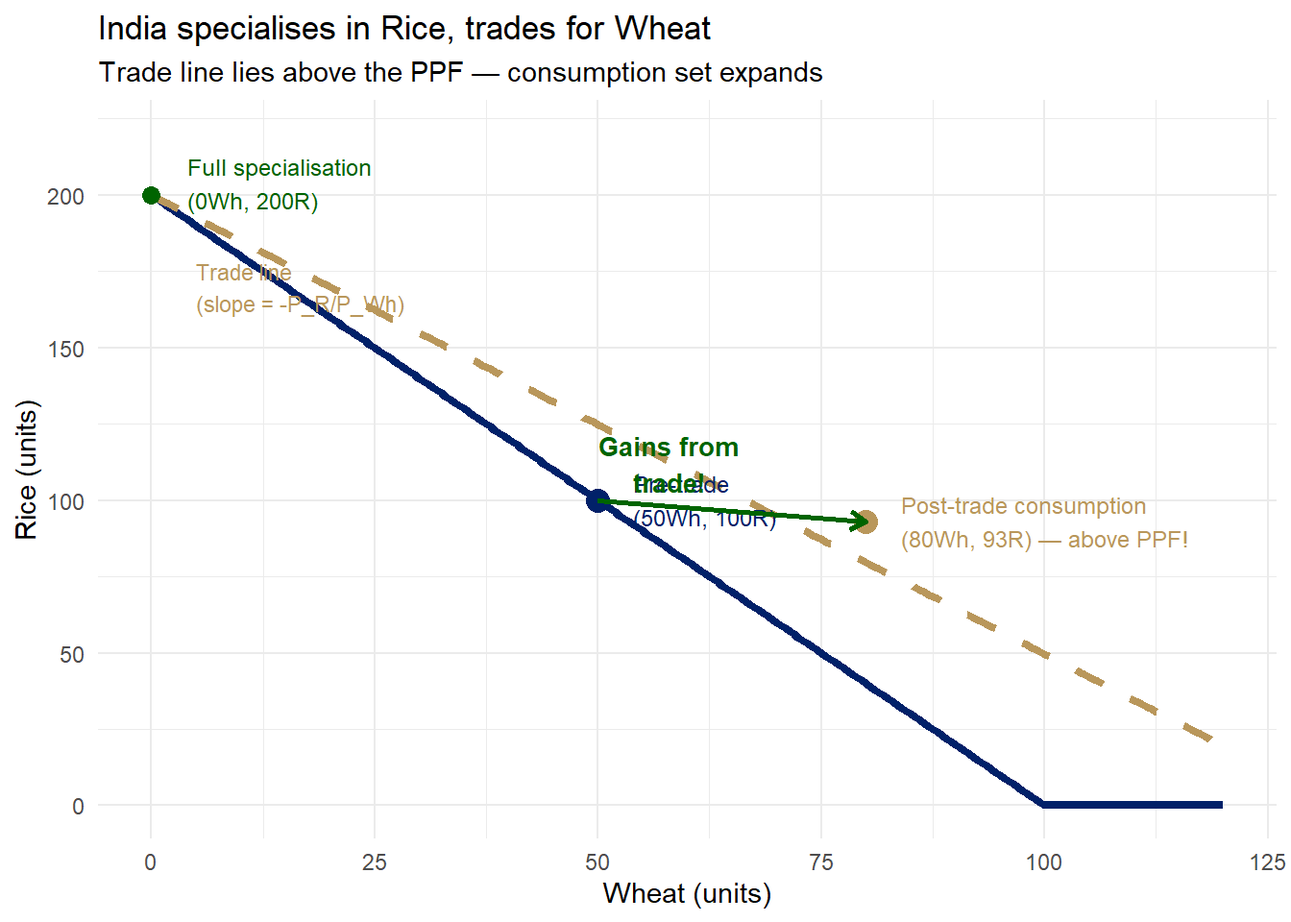
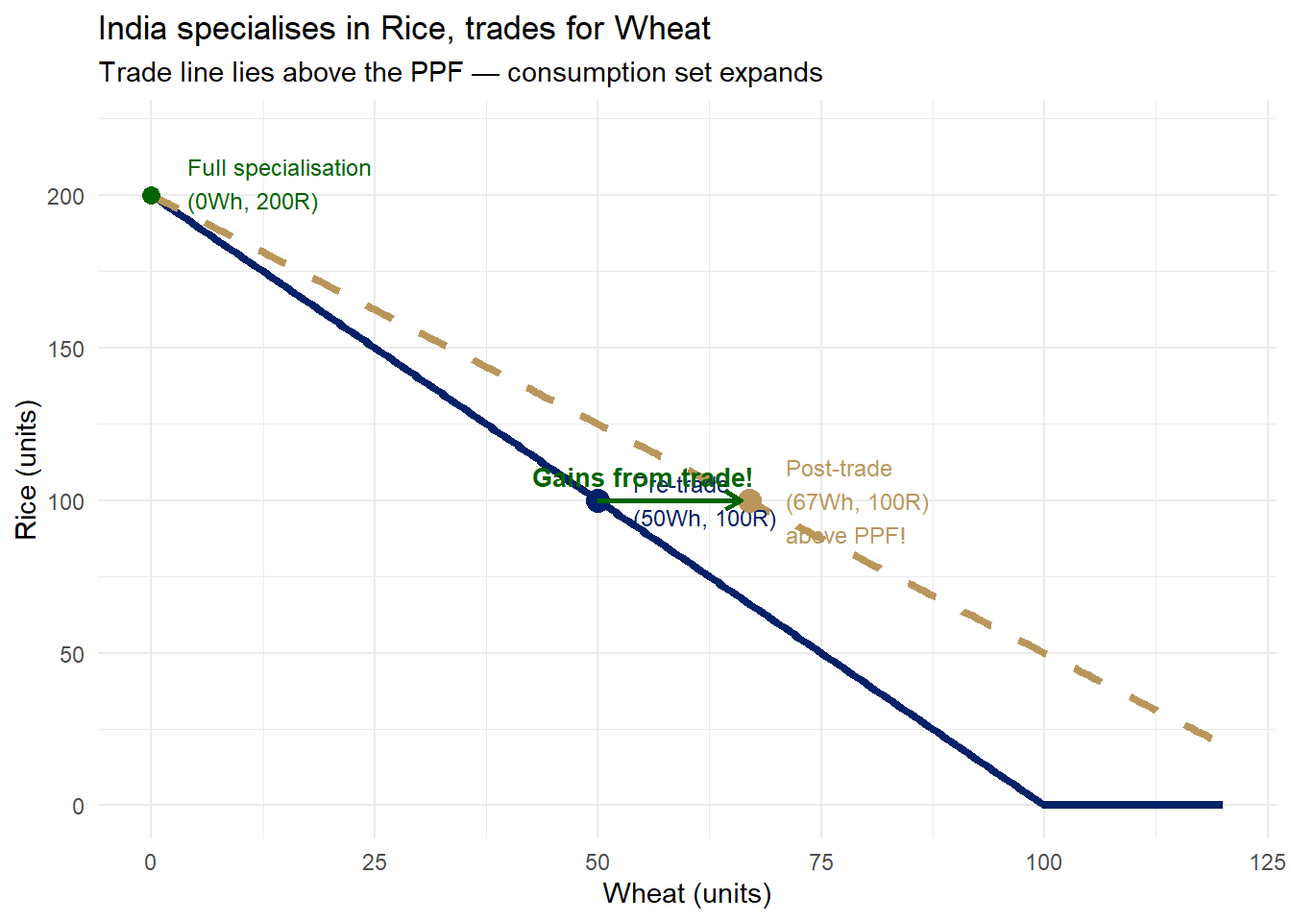
Fix economics errors in L04 and Edgeworth box in L05
L04 Comparative Advantage:
- Fix trade line slope: was -200/133 (same), text said '-1/1.5 = -0.67' (wrong) -> now '-1.5'
- Fix post-trade bundle: (80,93) was off the trade line (infeasible) -> (67,100) on trade line
- Fix 'Quantifying Gains' slide: '107 Rice for 80 Wheat' inconsistent -> '~100 Rice for ~67 Wheat'
- Fix fig-ic-ppf: trade line had slope -1 (should be -1.5); IC2=9600/Wh -> 6700/Wh (passes through E2=(67,100)); E2=(80,120) -> (67,100)

L05 Modern Theory (Edgeworth box):
- Switch from 0.7/0.3 to 0.6/0.4 factor intensities: E moves from (50,9.3) to (70,30.5)
- New contract curve: K = 240*L/(900-5*L)
- E now visually centred (70% of L-axis, 51% of K-axis)
- Updated isoquant ranges and label positions

Changed region(s): [[0.4062, 0.4688, 0.9375, 0.625], [0.1562, 0.2812, 0.3125, 0.3438]]

diff --git a/docs/Lecture05_Modern_Theory.html b/docs/Lecture05_Modern_Theory.html
@@ -267,70 +267,73 @@ Nithin M
 <div class="code-copy-outer-scaffold"><div class="sourceCode cell-code" id="cb1"><pre class="sourceCode numberSource r number-lines code-with-copy"><code class="sourceCode r"><span id="cb1-1"><a></a><span class="fu">library</span>(ggplot2)</span>
 <span id="cb1-2"><a></a></span>
 <span id="cb1-3"><a></a><span class="co"># Box: total Labour = 100, total Capital = 60</span></span>
-<span id="cb1-4"><a></a><span class="co"># Rice:     Q_R = L_R^0.7 * K_R^0.3  (labour-intensive)</span></span>
-<span id="cb1-5"><a></a><span class="co"># Machines: Q_M = L_M^0.3 * K_M^0.7  (capital-intensive)</span></span>
-<span id="cb1-6"><a></a><span class="co"># Contract curve from MRTS_R = MRTS_M =&gt; K_R = 540*L_R / (4900 - 40*L_R)</span></span>
-<span id="cb1-7"><a></a>L_cc <span class="ot">&lt;-</span> <span class="fu">seq</span>(<span class="dv">1</span>, <span class="dv">99</span>, <span class="at">by =</span> <span class="fl">0.5</span>)</span>
-<span id="cb1-8"><a></a>K_cc <span class="ot">&lt;-</span> <span class="dv">540</span> <span class="sc">*</span> L_cc <span class="sc">/</span> (<span class="dv">4900</span> <span class="sc">-</span> <span class="dv">40</span> <span class="sc">*</span> L_cc)</span>
-<span id="cb1-9"><a></a></span>
-<span id="cb1-10"><a></a><span class="co"># Point E exactly on the contract curve at L_R = 50</span></span>
-<span id="cb1-11"><a></a>L_E <span class="ot">&lt;-</span> <span class="dv">50</span></span>
-<span id="cb1-12"><a></a>K_E <span class="ot">&lt;-</span> <span class="dv">540</span> <span class="sc">*</span> L_E <span class="sc">/</span> (<span class="dv">4900</span> <span class="sc">-</span> <span class="dv">40</span> <span class="sc">*</span> L_E)   <span class="co"># = 9.31</span></span>
-<span id="cb1-13"><a></a></span>
-<span id="cb1-14"><a></a><span class="co"># Rice isoquant through E</span></span>
-<span id="cb1-15"><a></a>Q_R_E <span class="ot">&lt;-</span> L_E<span class="sc">^</span><span class="fl">0.7</span> <span class="sc">*</span> K_E<span class="sc">^</span><span class="fl">0.3</span></span>
-<span id="cb1-16"><a></a>iL_R  <span class="ot">&lt;-</span> <span class="fu">seq</span>(<span class="dv">23</span>, <span class="dv">96</span>, <span class="at">by =</span> <span class="fl">0.5</span>)</span>
-<span id="cb1-17"><a></a>iK_R  <span class="ot">&lt;-</span> (Q_R_E <span class="sc">/</span> iL_R<span class="sc">^</span><span class="fl">0.7</span>)<span class="sc">^</span>(<span class="dv">1</span> <span class="sc">/</span> <span class="fl">0.3</span>)</span>
-<span id="cb1-18"><a></a>df_R  <span class="ot">&lt;-</span> <span class="fu">subset</span>(<span class="fu">data.frame</span>(<span class="at">L =</span> iL_R, <span class="at">K =</span> iK_R), K <span class="sc">&gt;=</span> <span class="dv">0</span> <span class="sc">&amp;</span> K <span class="sc">&lt;=</span> <span class="dv">60</span>)</span>
-<span id="cb1-19"><a></a></span>
-<span id="cb1-20"><a></a><span class="co"># Machines isoquant through E (drawn in original coords)</span></span>
-<span id="cb1-21"><a></a>Q_M_E <span class="ot">&lt;-</span> (<span class="dv">100</span> <span class="sc">-</span> L_E)<span class="sc">^</span><span class="fl">0.3</span> <span class="sc">*</span> (<span class="dv">60</span> <span class="sc">-</span> K_E)<span class="sc">^</span><span class="fl">0.7</span></span>
-<span id="cb1-22"><a></a>iLM   <span class="ot">&lt;-</span> <span class="fu">seq</span>(<span class="dv">34</span>, <span class="dv">99</span>, <span class="at">by =</span> <span class="fl">0.5</span>)</span>
-<span id="cb1-23"><a></a>iKM   <span class="ot">&lt;-</span> (Q_M_E <span class="sc">/</span> iLM<span class="sc">^</span><span class="fl">0.3</span>)<span class="sc">^</span>(<span class="dv">1</span> <span class="sc">/</span> <span class="fl">0.7</span>)</span>
-<span id="cb1-24"><a></a>df_M  <span class="ot">&lt;-</span> <span class="fu">subset</span>(<span class="fu">data.frame</span>(<span class="at">L =</span> <span class="dv">100</span> <span class="sc">-</span> iLM, <span class="at">K =</span> <span class="dv">60</span> <span class="sc">-</span> iKM),</span>
-<span id="cb1-25"><a></a>                K <span class="sc">&gt;=</span> <span class="dv">0</span> <span class="sc">&amp;</span> K <span class="sc">&lt;=</span> <span class="dv">60</span> <span class="sc">&amp;</span> L <span class="sc">&gt;=</span> <span class="dv">0</span> <span class="sc">&amp;</span> L <span class="sc">&lt;=</span> <span class="dv">100</span>)</span>
-<span id="cb1-26"><a></a></span>
-<span id="cb1-27"><a></a><span class="fu">ggplot</span>() <span class="sc">+</span></span>
-<span id="cb1-28"><a></a>  <span class="fu">annotate</span>(<span class="st">"rect"</span>, <span class="at">xmin =</span> <span class="dv">0</span>, <span class="at">xmax =</span> <span class="dv">100</span>, <span class="at">ymin =</span> <span class="dv">0</span>, <span class="at">ymax =</span> <span class="dv">60</span>,</span>
-<span id="cb1-29"><a></a>           <span class="at">fill =</span> <span class="st">"#f8f8f8"</span>, <span class="at">color =</span> <span class="st">"black"</span>, <span class="at">linewidth =</span> <span class="fl">1.1</span>) <span class="sc">+</span></span>
-<span id="cb1-30"><a></a>  <span class="co"># Isoquants</span></span>
-<span id="cb1-31"><a></a>  <span class="fu">geom_line</span>(<span class="at">data =</span> df_R, <span class="fu">aes</span>(<span class="at">x =</span> L, <span class="at">y =</span> K),</span>
-<span id="cb1-32"><a></a>            <span class="at">color =</span> <span class="st">"#012169"</span>, <span class="at">linewidth =</span> <span class="fl">0.9</span>, <span class="at">linetype =</span> <span class="st">"dashed"</span>) <span class="sc">+</span></span>
-<span id="cb1-33"><a></a>  <span class="fu">geom_line</span>(<span class="at">data =</span> df_M, <span class="fu">aes</span>(<span class="at">x =</span> L, <span class="at">y =</span> K),</span>
-<span id="cb1-34"><a></a>            <span class="at">color =</span> <span class="st">"#B9975B"</span>, <span class="at">linewidth =</span> <span class="fl">0.9</span>, <span class="at">linetype =</span> <span class="st">"dashed"</span>) <span class="sc">+</span></span>
-<span id="cb1-35"><a></a>  <span class="co"># Contract curve</span></span>
-<span id="cb1-36"><a></a>  <span class="fu">geom_line</span>(<span class="at">data =</span> <span class="fu">data.frame</span>(<span class="at">L =</span> L_cc, <span class="at">K =</span> K_cc), <span class="fu">aes</span>(<span class="at">x =</span> L, <span class="at">y =</span> K),</span>
-<span id="cb1-37"><a></a>            <span class="at">color =</span> <span class="st">"#012169"</span>, <span class="at">linewidth =</span> <span class="fl">1.6</span>) <span class="sc">+</span></span>
-<span id="cb1-38"><a></a>  <span class="co"># Efficient allocation E</span></span>
-<span id="cb1-39"><a></a>  <span class="fu">geom_point</span>(<span class="fu">aes</span>(<span class="at">x =</span> L_E, <span class="at">y =</span> K_E), <span class="at">size =</span> <span class="dv">4</span>, <span class="at">color =</span> <span class="st">"darkgreen"</span>) <span class="sc">+</span></span>
-<span id="cb1-40"><a></a>  <span class="fu">annotate</span>(<span class="st">"text"</span>, <span class="at">x =</span> <span class="dv">54</span>, <span class="at">y =</span> <span class="dv">12</span>, <span class="at">hjust =</span> <span class="dv">0</span>, <span class="at">size =</span> <span class="fl">3.5</span>,</span>
-<span id="cb1-41"><a></a>           <span class="at">label =</span> <span class="st">"E  (efficient alloc.)"</span>, <span class="at">color =</span> <span class="st">"darkgreen"</span>) <span class="sc">+</span></span>
-<span id="cb1-42"><a></a>  <span class="co"># Rice origin</span></span>
-<span id="cb1-43"><a></a>  <span class="fu">annotate</span>(<span class="st">"text"</span>, <span class="at">x =</span> <span class="dv">2</span>, <span class="at">y =</span> <span class="fl">2.5</span>, <span class="at">hjust =</span> <span class="dv">0</span>, <span class="at">size =</span> <span class="dv">4</span>, <span class="at">fontface =</span> <span class="st">"bold"</span>,</span>
-<span id="cb1-44"><a></a>           <span class="at">label =</span> <span class="st">"O[R]"</span>, <span class="at">parse =</span> <span class="cn">TRUE</span>, <span class="at">color =</span> <span class="st">"#012169"</span>) <span class="sc">+</span></span>
-<span id="cb1-45"><a></a>  <span class="fu">annotate</span>(<span class="st">"text"</span>, <span class="at">x =</span> <span class="dv">2</span>, <span class="at">y =</span> <span class="fl">7.5</span>, <span class="at">hjust =</span> <span class="dv">0</span>, <span class="at">size =</span> <span class="dv">3</span>,</span>
-<span id="cb1-46"><a></a>           <span class="at">label =</span> <span class="st">"Rice sector"</span>, <span class="at">color =</span> <span class="st">"#012169"</span>) <span class="sc">+</span></span>
-<span id="cb1-47"><a></a>  <span class="co"># Machines origin</span></span>
-<span id="cb1-48"><a></a>  <span class="fu">annotate</span>(<span class="st">"text"</span>, <span class="at">x =</span> <span class="dv">98</span>, <span class="at">y =</span> <span class="fl">57.5</span>, <span class="at">hjust =</span> <span class="dv">1</span>, <span class="at">size =</span> <span class="dv">4</span>, <span class="at">fontface =</span> <span class="st">"bold"</span>,</span>
-<span id="cb1-49"><a></a>           <span class="at">label =</span> <span class="st">"O[M]"</span>, <span class="at">parse =</span> <span class="cn">TRUE</span>, <span class="at">color =</span> <span class="st">"#B9975B"</span>) <span class="sc">+</span></span>
-<span id="cb1-50"><a></a>  <span class="fu">annotate</span>(<span class="st">"text"</span>, <span class="at">x =</span> <span class="dv">98</span>, <span class="at">y =</span> <span class="fl">52.5</span>, <span class="at">hjust =</span> <span class="dv">1</span>, <span class="at">size =</span> <span class="dv">3</span>,</span>
-<span id="cb1-51"><a></a>           <span class="at">label =</span> <span class="st">"Machines sector"</span>, <span class="at">color =</span> <span class="st">"#B9975B"</span>) <span class="sc">+</span></span>
-<span id="cb1-52"><a></a>  <span class="co"># Isoquant labels</span></span>
-<span id="cb1-53"><a></a>  <span class="fu">annotate</span>(<span class="st">"text"</span>, <span class="at">x =</span> <span class="dv">82</span>, <span class="at">y =</span> <span class="fl">2.5</span>, <span class="at">hjust =</span> <span class="dv">0</span>, <span class="at">size =</span> <span class="dv">3</span>,</span>
-<span id="cb1-54"><a></a>           <span class="at">label =</span> <span class="st">"Rice isoquant"</span>, <span class="at">color =</span> <span class="st">"#012169"</span>) <span class="sc">+</span></span>
-<span id="cb1-55"><a></a>  <span class="fu">annotate</span>(<span class="st">"text"</span>, <span class="at">x =</span> <span class="dv">5</span>, <span class="at">y =</span> <span class="dv">40</span>, <span class="at">hjust =</span> <span class="dv">0</span>, <span class="at">size =</span> <span class="dv">3</span>,</span>
-<span id="cb1-56"><a></a>           <span class="at">label =</span> <span class="st">"Machines</span><span class="sc">\n</span><span class="st">isoquant"</span>, <span class="at">color =</span> <span class="st">"#B9975B"</span>) <span class="sc">+</span></span>
-<span id="cb1-57"><a></a>  <span class="co"># Contract curve label</span></span>
-<span id="cb1-58"><a></a>  <span class="fu">annotate</span>(<span class="st">"text"</span>, <span class="at">x =</span> <span class="dv">64</span>, <span class="at">y =</span> <span class="dv">27</span>, <span class="at">hjust =</span> <span class="dv">0</span>, <span class="at">size =</span> <span class="fl">3.5</span>, <span class="at">fontface =</span> <span class="st">"bold"</span>,</span>
-<span id="cb1-59"><a></a>           <span class="at">label =</span> <span class="st">"Contract</span><span class="sc">\n</span><span class="st">curve"</span>, <span class="at">color =</span> <span class="st">"#012169"</span>) <span class="sc">+</span></span>
-<span id="cb1-60"><a></a>  <span class="fu">labs</span>(</span>
-<span id="cb1-61"><a></a>    <span class="at">title    =</span> <span class="st">"Edgeworth box: efficient factor allocations"</span>,</span>
-<span id="cb1-62"><a></a>    <span class="at">subtitle =</span> <span class="fu">expression</span>(<span class="fu">paste</span>(<span class="st">"At E: "</span>, MPL[R]<span class="sc">/</span>MPK[R], <span class="st">" = "</span>, MPL[M]<span class="sc">/</span>MPK[M])),</span>
-<span id="cb1-63"><a></a>    <span class="at">x        =</span> <span class="st">"Labour allocated to Rice"</span>,</span>
-<span id="cb1-64"><a></a>    <span class="at">y        =</span> <span class="st">"Capital allocated to Rice"</span></span>
-<span id="cb1-65"><a></a>  ) <span class="sc">+</span></span>
-<span id="cb1-66"><a></a>  <span class="fu">coord_cartesian</span>(<span class="at">xlim =</span> <span class="fu">c</span>(<span class="sc">-</span><span class="dv">2</span>, <span class="dv">103</span>), <span class="at">ylim =</span> <span class="fu">c</span>(<span class="sc">-</span><span class="dv">4</span>, <span class="dv">62</span>)) <span class="sc">+</span></span>
-<span id="cb1-67"><a></a>  <span class="fu">theme_minimal</span>(<span class="at">base_size =</span> <span class="dv">11</span>)</span></code></pre></div><button title="Copy to Clipboard" class="code-copy-button"><i class="bi"></i></button></div>
+<span id="cb1-4"><a></a><span class="co"># Rice:     Q_R = L_R^0.6 * K_R^0.4  (labour-intensive)</span></span>
+<span id="cb1-5"><a></a><span class="co"># Machines: Q_M = L_M^0.4 * K_M^0.6  (capital-intensive)</span></span>
+<span id="cb1-6"><a></a><span class="co"># Contract curve from MRTS_R = MRTS_M:</span></span>
+<span id="cb1-7"><a></a><span class="co">#   (0.6/0.4)*(K_R/L_R) = (0.4/0.6)*(K_M/L_M)</span></span>
+<span id="cb1-8"><a></a><span class="co">#   =&gt;  K_R = 240*L_R / (900 - 5*L_R)</span></span>
+<span id="cb1-9"><a></a>L_cc <span class="ot">&lt;-</span> <span class="fu">seq</span>(<span class="dv">1</span>, <span class="dv">99</span>, <span class="at">by =</span> <span class="fl">0.5</span>)</span>
+<span id="cb1-10"><a></a>K_cc <span class="ot">&lt;-</span> <span class="dv">240</span> <span class="sc">*</span> L_cc <span class="sc">/</span> (<span class="dv">900</span> <span class="sc">-</span> <span class="dv">5</span> <span class="sc">*</span> L_cc)</span>
+<span id="cb1-11"><a></a></span>
+<span id="cb1-12"><a></a><span class="co"># Point E at L_R = 70: visually centred (70% of L-axis, ~51% of K-axis)</span></span>
+<span id="cb1-13"><a></a>L_E <span class="ot">&lt;-</span> <span class="dv">70</span></span>
+<span id="cb1-14"><a></a>K_E <span class="ot">&lt;-</span> <span class="dv">240</span> <span class="sc">*</span> L_E <span class="sc">/</span> (<span class="dv">900</span> <span class="sc">-</span> <span class="dv">5</span> <span class="sc">*</span> L_E)   <span class="co"># = 16800/550 ≈ 30.5</span></span>
+<span id="cb1-15"><a></a></span>
+<span id="cb1-16"><a></a><span class="co"># Rice isoquant through E</span></span>
+<span id="cb1-17"><a></a>Q_R_E <span class="ot">&lt;-</span> L_E<span class="sc">^</span><span class="fl">0.6</span> <span class="sc">*</span> K_E<span class="sc">^</span><span class="fl">0.4</span></span>
+<span id="cb1-18"><a></a>iL_R  <span class="ot">&lt;-</span> <span class="fu">seq</span>(<span class="dv">45</span>, <span class="dv">97</span>, <span class="at">by =</span> <span class="fl">0.5</span>)</span>
+<span id="cb1-19"><a></a>iK_R  <span class="ot">&lt;-</span> (Q_R_E <span class="sc">/</span> iL_R<span class="sc">^</span><span class="fl">0.6</span>)<span class="sc">^</span>(<span class="dv">1</span> <span class="sc">/</span> <span class="fl">0.4</span>)</span>
+<span id="cb1-20"><a></a>df_R  <span class="ot">&lt;-</span> <span class="fu">subset</span>(<span class="fu">data.frame</span>(<span class="at">L =</span> iL_R, <span class="at">K =</span> iK_R), K <span class="sc">&gt;=</span> <span class="dv">0</span> <span class="sc">&amp;</span> K <span class="sc">&lt;=</span> <span class="dv">60</span>)</span>
+<span id="cb1-21"><a></a></span>
+<span id="cb1-22"><a></a><span class="co"># Machines isoquant through E (drawn in original coords)</span></span>
+<span id="cb1-23"><a></a><span class="co"># E in machine coords: L_M = 30, K_M ≈ 29.5</span></span>
+<span id="cb1-24"><a></a>Q_M_E <span class="ot">&lt;-</span> (<span class="dv">100</span> <span class="sc">-</span> L_E)<span class="sc">^</span><span class="fl">0.4</span> <span class="sc">*</span> (<span class="dv">60</span> <span class="sc">-</span> K_E)<span class="sc">^</span><span class="fl">0.6</span></span>
+<span id="cb1-25"><a></a>iLM   <span class="ot">&lt;-</span> <span class="fu">seq</span>(<span class="dv">11</span>, <span class="dv">99</span>, <span class="at">by =</span> <span class="fl">0.5</span>)</span>
+<span id="cb1-26"><a></a>iKM   <span class="ot">&lt;-</span> (Q_M_E <span class="sc">/</span> iLM<span class="sc">^</span><span class="fl">0.4</span>)<span class="sc">^</span>(<span class="dv">1</span> <span class="sc">/</span> <span class="fl">0.6</span>)</span>
+<span id="cb1-27"><a></a>df_M  <span class="ot">&lt;-</span> <span class="fu">subset</span>(<span class="fu">data.frame</span>(<span class="at">L =</span> <span class="dv">100</span> <span class="sc">-</span> iLM, <span class="at">K =</span> <span class="dv">60</span> <span class="sc">-</span> iKM),</span>
+<span id="cb1-28"><a></a>                K <span class="sc">&gt;=</span> <span class="dv">0</span> <span class="sc">&amp;</span> K <span class="sc">&lt;=</span> <span class="dv">60</span> <span class="sc">&amp;</span> L <span class="sc">&gt;=</span> <span class="dv">0</span> <span class="sc">&amp;</span> L <span class="sc">&lt;=</span> <span class="dv">100</span>)</span>
+<span id="cb1-29"><a></a></span>
+<span id="cb1-30"><a></a><span class="fu">ggplot</span>() <span class="sc">+</span></span>
+<span id="cb1-31"><a></a>  <span class="fu">annotate</span>(<span class="st">"rect"</span>, <span class="at">xmin =</span> <span class="dv">0</span>, <span class="at">xmax =</span> <span class="dv">100</span>, <span class="at">ymin =</span> <span class="dv">0</span>, <span class="at">ymax =</span> <span class="dv">60</span>,</span>
+<span id="cb1-32"><a></a>           <span class="at">fill =</span> <span class="st">"#f8f8f8"</span>, <span class="at">color =</span> <span class="st">"black"</span>, <span class="at">linewidth =</span> <span class="fl">1.1</span>) <span class="sc">+</span></span>
+<span id="cb1-33"><a></a>  <span class="co"># Isoquants</span></span>
+<span id="cb1-34"><a></a>  <span class="fu">geom_line</span>(<span class="at">data =</span> df_R, <span class="fu">aes</span>(<span class="at">x =</span> L, <span class="at">y =</span> K),</span>
+<span id="cb1-35"><a></a>            <span class="at">color =</span> <span class="st">"#012169"</span>, <span class="at">linewidth =</span> <span class="fl">0.9</span>, <span class="at">linetype =</span> <span class="st">"dashed"</span>) <span class="sc">+</span></span>
+<span id="cb1-36"><a></a>  <span class="fu">geom_line</span>(<span class="at">data =</span> df_M, <span class="fu">aes</span>(<span class="at">x =</span> L, <span class="at">y =</span> K),</span>
+<span id="cb1-37"><a></a>            <span class="at">color =</span> <span class="st">"#B9975B"</span>, <span class="at">linewidth =</span> <span class="fl">0.9</span>, <span class="at">linetype =</span> <span class="st">"dashed"</span>) <span class="sc">+</span></span>
+<span id="cb1-38"><a></a>  <span class="co"># Contract curve</span></span>
+<span id="cb1-39"><a></a>  <span class="fu">geom_line</span>(<span class="at">data =</span> <span class="fu">data.frame</span>(<span class="at">L =</span> L_cc, <span class="at">K =</span> K_cc), <span class="fu">aes</span>(<span class="at">x =</span> L, <span class="at">y =</span> K),</span>
+<span id="cb1-40"><a></a>            <span class="at">color =</span> <span class="st">"#012169"</span>, <span class="at">linewidth =</span> <span class="fl">1.6</span>) <span class="sc">+</span></span>
+<span id="cb1-41"><a></a>  <span class="co"># Efficient allocation E</span></span>
+<span id="cb1-42"><a></a>  <span class="fu">geom_point</span>(<span class="fu">aes</span>(<span class="at">x =</span> L_E, <span class="at">y =</span> K_E), <span class="at">size =</span> <span class="dv">4</span>, <span class="at">color =</span> <span class="st">"darkgreen"</span>) <span class="sc">+</span></span>
+<span id="cb1-43"><a></a>  <span class="fu">annotate</span>(<span class="st">"text"</span>, <span class="at">x =</span> <span class="dv">74</span>, <span class="at">y =</span> <span class="dv">33</span>, <span class="at">hjust =</span> <span class="dv">0</span>, <span class="at">size =</span> <span class="fl">3.5</span>,</span>
+<span id="cb1-44"><a></a>           <span class="at">label =</span> <span class="st">"E  (efficient alloc.)"</span>, <span class="at">color =</span> <span class="st">"darkgreen"</span>) <span class="sc">+</span></span>
+<span id="cb1-45"><a></a>  <span class="co"># Rice origin</span></span>
+<span id="cb1-46"><a></a>  <span class="fu">annotate</span>(<span class="st">"text"</span>, <span class="at">x =</span> <span class="dv">2</span>, <span class="at">y =</span> <span class="fl">2.5</span>, <span class="at">hjust =</span> <span class="dv">0</span>, <span class="at">size =</span> <span class="dv">4</span>, <span class="at">fontface =</span> <span class="st">"bold"</span>,</span>
+<span id="cb1-47"><a></a>           <span class="at">label =</span> <span class="st">"O[R]"</span>, <span class="at">parse =</span> <span class="cn">TRUE</span>, <span class="at">color =</span> <span class="st">"#012169"</span>) <span class="sc">+</span></span>
+<span id="cb1-48"><a></a>  <span class="fu">annotate</span>(<span class="st">"text"</span>, <span class="at">x =</span> <span class="dv">2</span>, <span class="at">y =</span> <span class="fl">7.5</span>, <span class="at">hjust =</span> <span class="dv">0</span>, <span class="at">size =</span> <span class="dv">3</span>,</span>
+<span id="cb1-49"><a></a>           <span class="at">label =</span> <span class="st">"Rice sector"</span>, <span class="at">color =</span> <span class="st">"#012169"</span>) <span class="sc">+</span></span>
+<span id="cb1-50"><a></a>  <span class="co"># Machines origin</span></span>
+<span id="cb1-51"><a></a>  <span class="fu">annotate</span>(<span class="st">"text"</span>, <span class="at">x =</span> <span class="dv">98</span>, <span class="at">y =</span> <span class="fl">57.5</span>, <span class="at">hjust =</span> <span class="dv">1</span>, <span class="at">size =</span> <span class="dv">4</span>, <span class="at">fontface =</span> <span class="st">"bold"</span>,</span>
+<span id="cb1-52"><a></a>           <span class="at">label =</span> <span class="st">"O[M]"</span>, <span class="at">parse =</span> <span class="cn">TRUE</span>, <span class="at">color =</span> <span class="st">"#B9975B"</span>) <span class="sc">+</span></span>
+<span id="cb1-53"><a></a>  <span class="fu">annotate</span>(<span class="st">"text"</span>, <span class="at">x =</span> <span class="dv">98</span>, <span class="at">y =</span> <span class="fl">52.5</span>, <span class="at">hjust =</span> <span class="dv">1</span>, <span class="at">size =</span> <span class="dv">3</span>,</span>
+<span id="cb1-54"><a></a>           <span class="at">label =</span> <span class="st">"Machines sector"</span>, <span class="at">color =</span> <span class="st">"#B9975B"</span>) <span class="sc">+</span></span>
+<span id="cb1-55"><a></a>  <span class="co"># Isoquant labels</span></span>
+<span id="cb1-56"><a></a>  <span class="fu">annotate</span>(<span class="st">"text"</span>, <span class="at">x =</span> <span class="dv">82</span>, <span class="at">y =</span> <span class="dv">3</span>, <span class="at">hjust =</span> <span class="dv">0</span>, <span class="at">size =</span> <span class="dv">3</span>,</span>
+<span id="cb1-57"><a></a>           <span class="at">label =</span> <span class="st">"Rice isoquant"</span>, <span class="at">color =</span> <span class="st">"#012169"</span>) <span class="sc">+</span></span>
+<span id="cb1-58"><a></a>  <span class="fu">annotate</span>(<span class="st">"text"</span>, <span class="at">x =</span> <span class="dv">5</span>, <span class="at">y =</span> <span class="dv">50</span>, <span class="at">hjust =</span> <span class="dv">0</span>, <span class="at">size =</span> <span class="dv">3</span>,</span>
+<span id="cb1-59"><a></a>           <span class="at">label =</span> <span class="st">"Machines</span><span class="sc">\n</span><span class="st">isoquant"</span>, <span class="at">color =</span> <span class="st">"#B9975B"</span>) <span class="sc">+</span></span>
+<span id="cb1-60"><a></a>  <span class="co"># Contract curve label</span></span>
+<span id="cb1-61"><a></a>  <span class="fu">annotate</span>(<span class="st">"text"</span>, <span class="at">x =</span> <span class="dv">42</span>, <span class="at">y =</span> <span class="dv">26</span>, <span class="at">hjust =</span> <span class="dv">0</span>, <span class="at">size =</span> <span class="fl">3.5</span>, <span class="at">fontface =</span> <span class="st">"bold"</span>,</span>
+<span id="cb1-62"><a></a>           <span class="at">label =</span> <span class="st">"Contract</span><span class="sc">\n</span><span class="st">curve"</span>, <span class="at">color =</span> <span class="st">"#012169"</span>) <span class="sc">+</span></span>
+<span id="cb1-63"><a></a>  <span class="fu">labs</span>(</span>
+<span id="cb1-64"><a></a>    <span class="at">title    =</span> <span class="st">"Edgeworth box: efficient factor allocations"</span>,</span>
+<span id="cb1-65"><a></a>    <span class="at">subtitle =</span> <span class="fu">expression</span>(<span class="fu">paste</span>(<span class="st">"At E: "</span>, MPL[R]<span class="sc">/</span>MPK[R], <span class="st">" = "</span>, MPL[M]<span class="sc">/</span>MPK[M])),</span>
+<span id="cb1-66"><a></a>    <span class="at">x        =</span> <span class="st">"Labour allocated to Rice"</span>,</span>
+<span id="cb1-67"><a></a>    <span class="at">y        =</span> <span class="st">"Capital allocated to Rice"</span></span>
+<span id="cb1-68"><a></a>  ) <span class="sc">+</span></span>
+<span id="cb1-69"><a></a>  <span class="fu">coord_cartesian</span>(<span class="at">xlim =</span> <span class="fu">c</span>(<span class="sc">-</span><span class="dv">2</span>, <span class="dv">103</span>), <span class="at">ylim =</span> <span class="fu">c</span>(<span class="sc">-</span><span class="dv">4</span>, <span class="dv">62</span>)) <span class="sc">+</span></span>
+<span id="cb1-70"><a></a>  <span class="fu">theme_minimal</span>(<span class="at">base_size =</span> <span class="dv">11</span>)</span></code></pre></div><button title="Copy to Clipboard" class="code-copy-button"><i class="bi"></i></button></div>
 </details>
 <div class="cell-output-display">
 <div id="fig-edgeworth" class="quarto-float quarto-figure quarto-figure-center">
